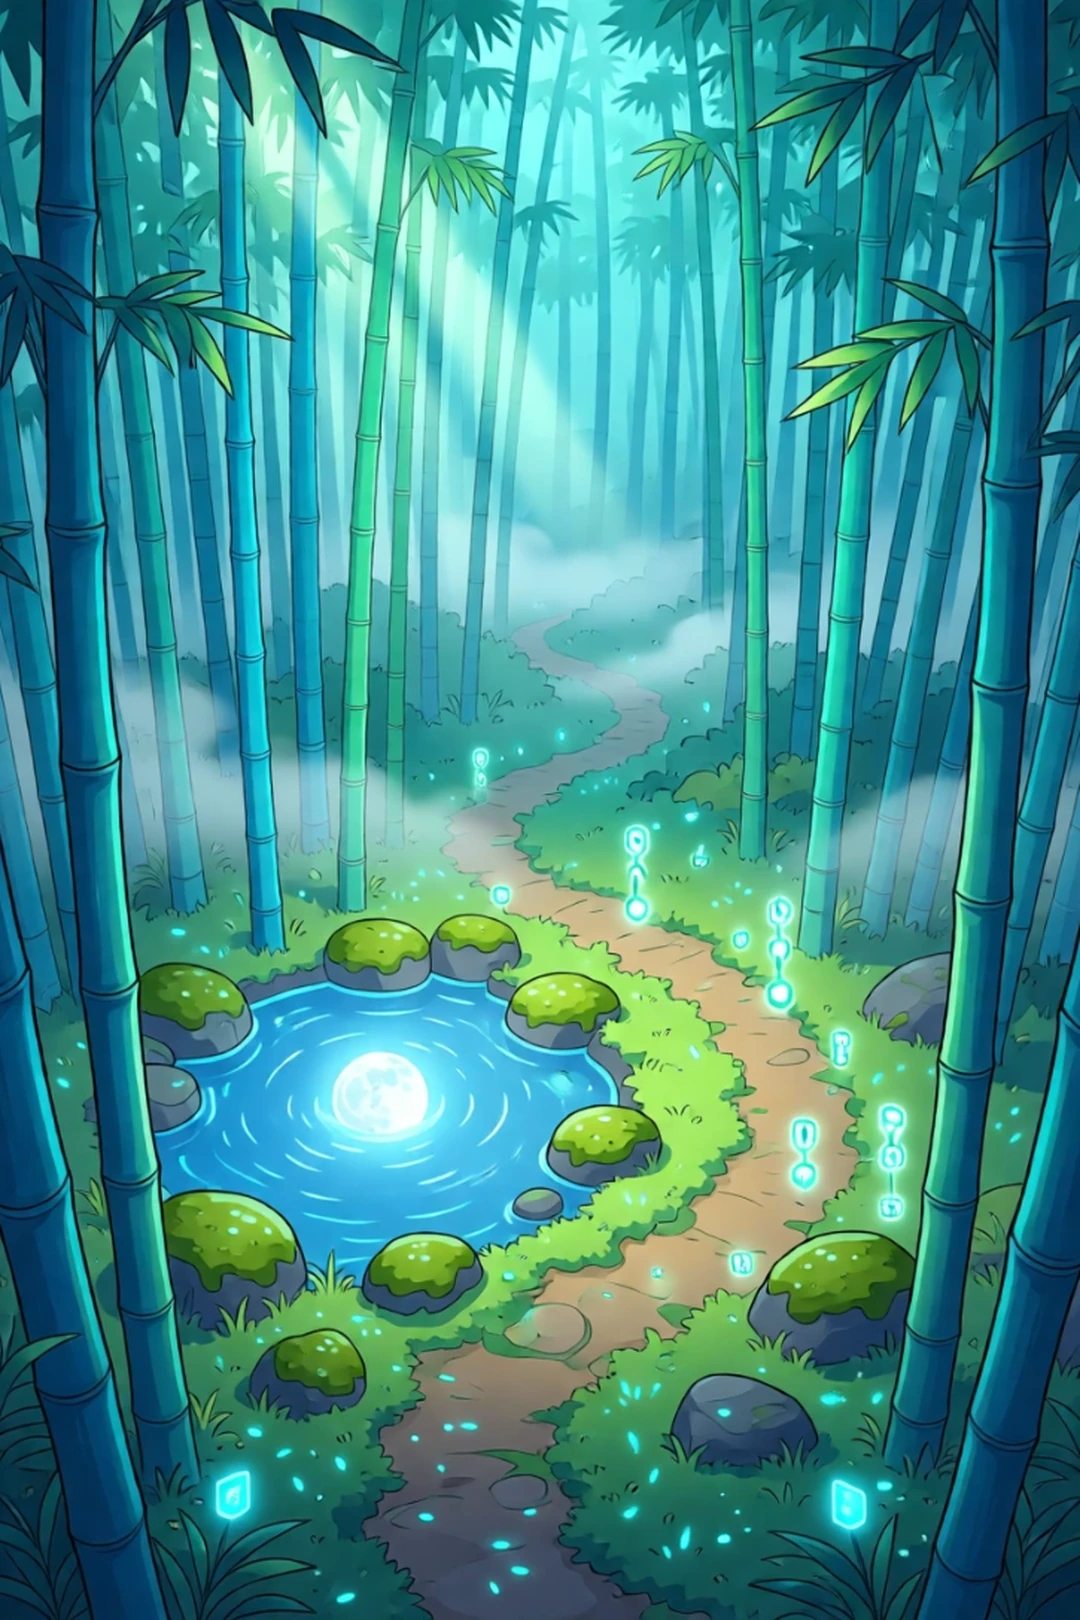
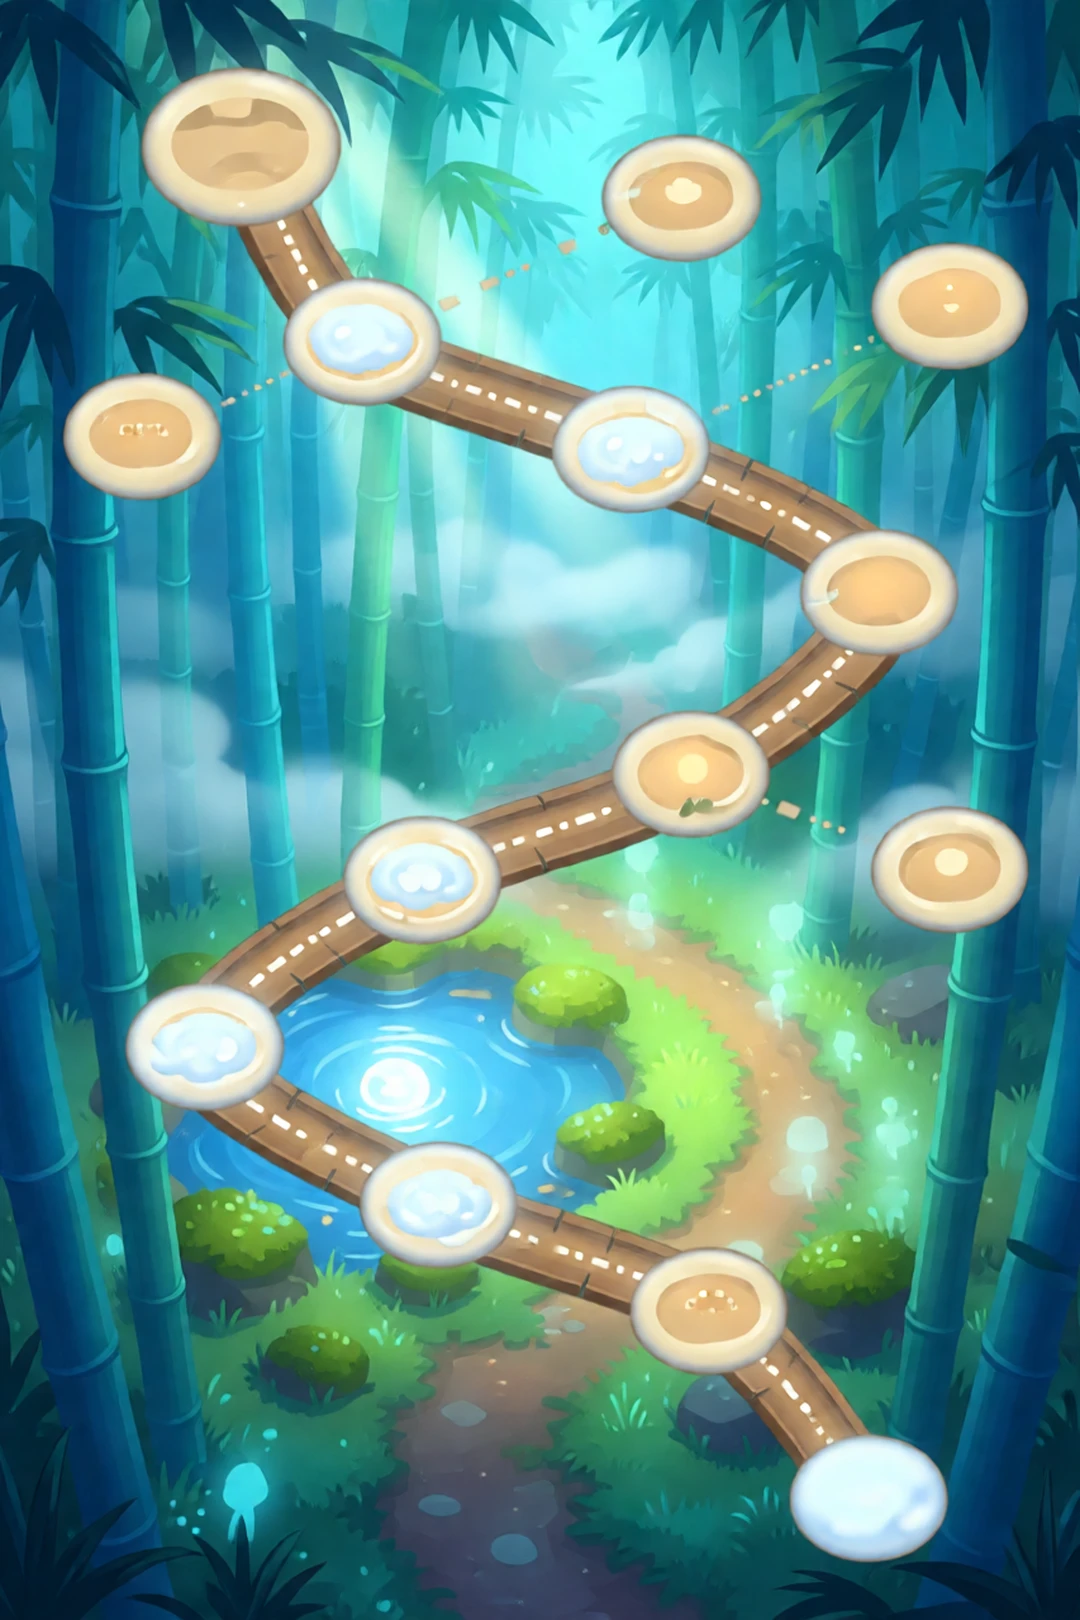
Alchemy furnace art and two more region maps (Azure Bamboo Forest, Celestial Mountains)
- ui.alchemy cauldron drawn from the mockup crop (refs/style/alchemy_cauldron.png), shown between the success ring and
  the docked panel; ring chips stay above it.
- Region maps 13/15 on the place-layout guides; Ancient Sword Tomb and Demon Territory drifted and will be redrawn.

Claude-Session: https://claude.ai/code/session_01V5m5DGDreZFK5hkcisbcFN

diff --git a/src/ui/theme.css b/src/ui/theme.css
@@ -1239,3 +1239,5 @@ button.tag { min-height: 32px; padding: 4px 12px; }
 .sell-h { display: flex; align-items: baseline; gap: 8px; margin: 10px 2px 6px; font-family: var(--f-title); font-weight: 800; font-variant: small-caps; font-size: calc(13.5rem / 15); } .sell-h .muted { font-family: var(--f-body); font-variant: normal; font-weight: 600; font-size: calc(11rem / 15); }
 .sell-bar { position: sticky; bottom: 0; z-index: 4; box-shadow: 0 -10px 24px rgba(4,8,30,.55); }
 .res-btns3 { display: grid; grid-template-columns: auto auto minmax(0, 1fr); gap: 8px; } .res-btns3 .btn.gold { flex-direction: column; gap: 0; line-height: 1.1; } .res-btns3 .btn.gold .cta-s { margin: 0; max-width: 100%; overflow: hidden; text-overflow: ellipsis; white-space: nowrap; }
+.alch-top { z-index: 2; } .alch-space { z-index: 1; }
+.alch-cauldron { left: 44%; bottom: 6px; width: min(270px, 68vw); }
